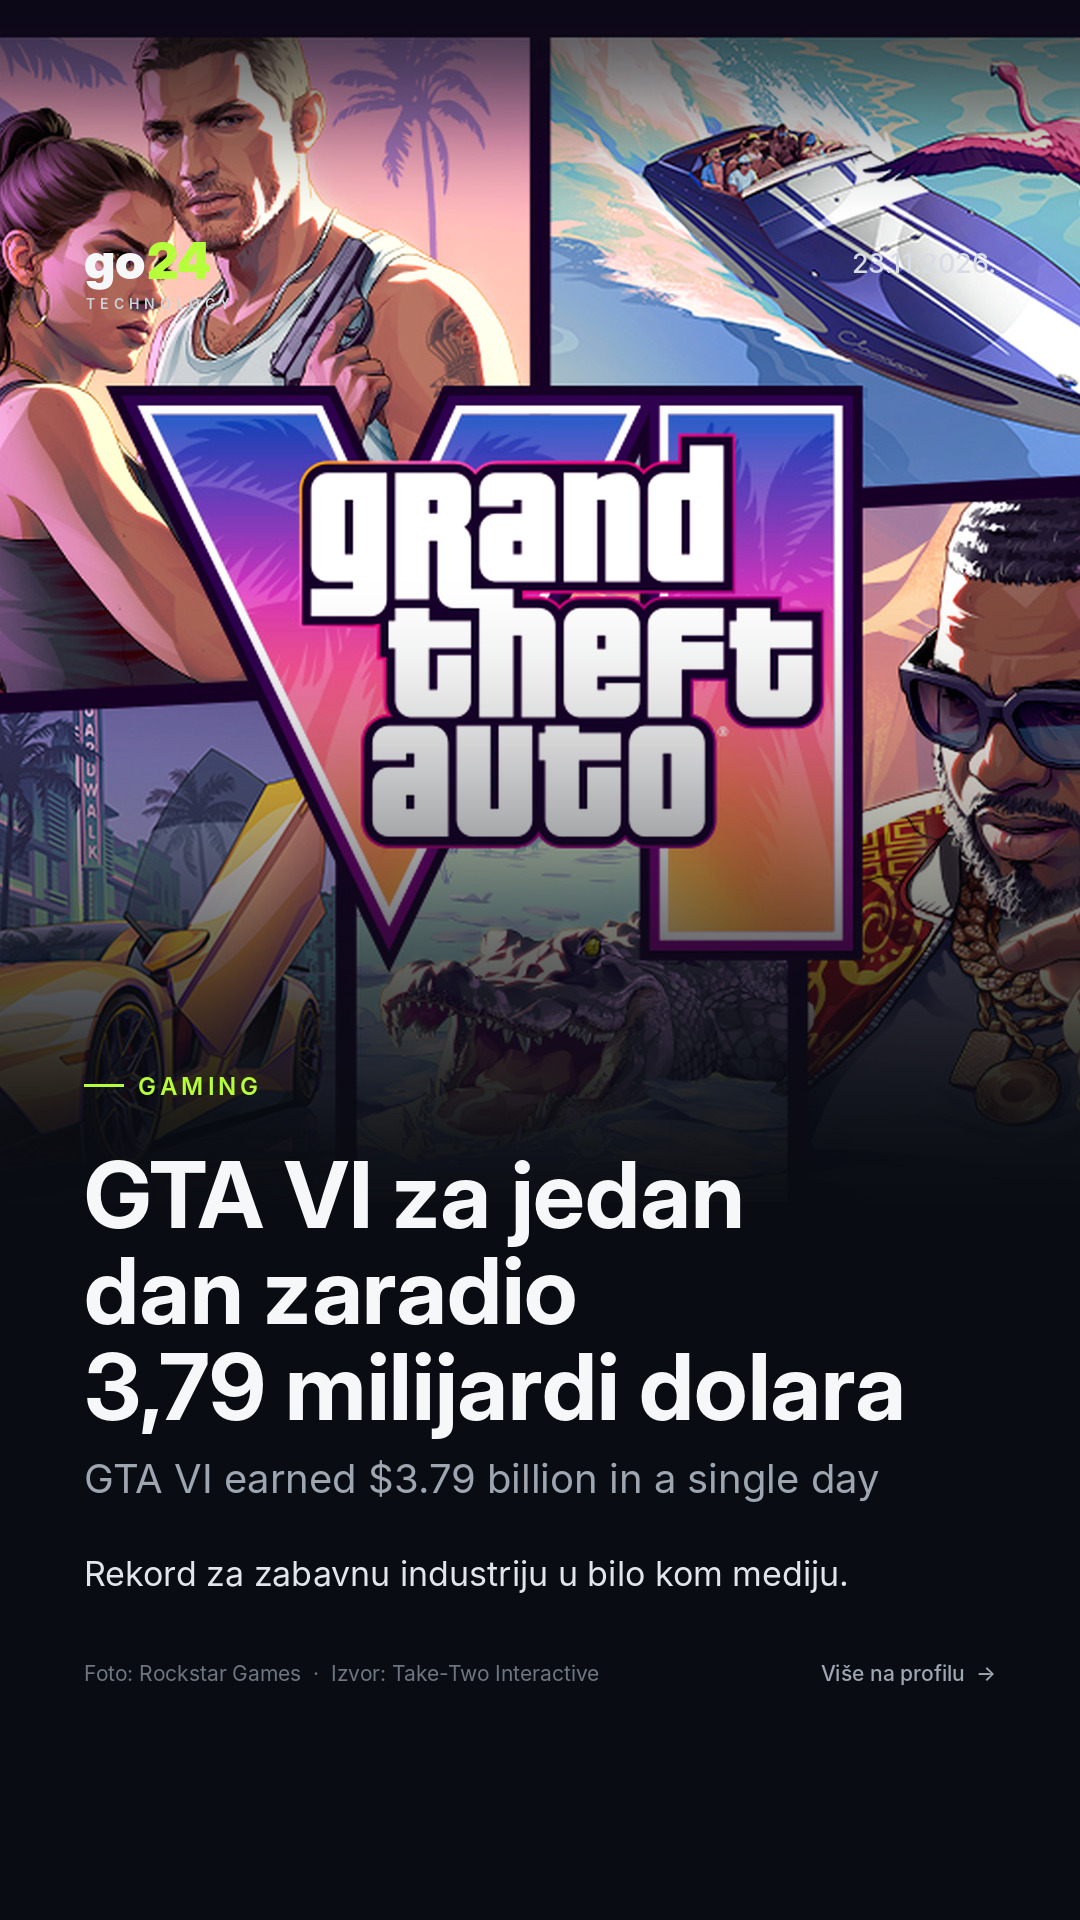
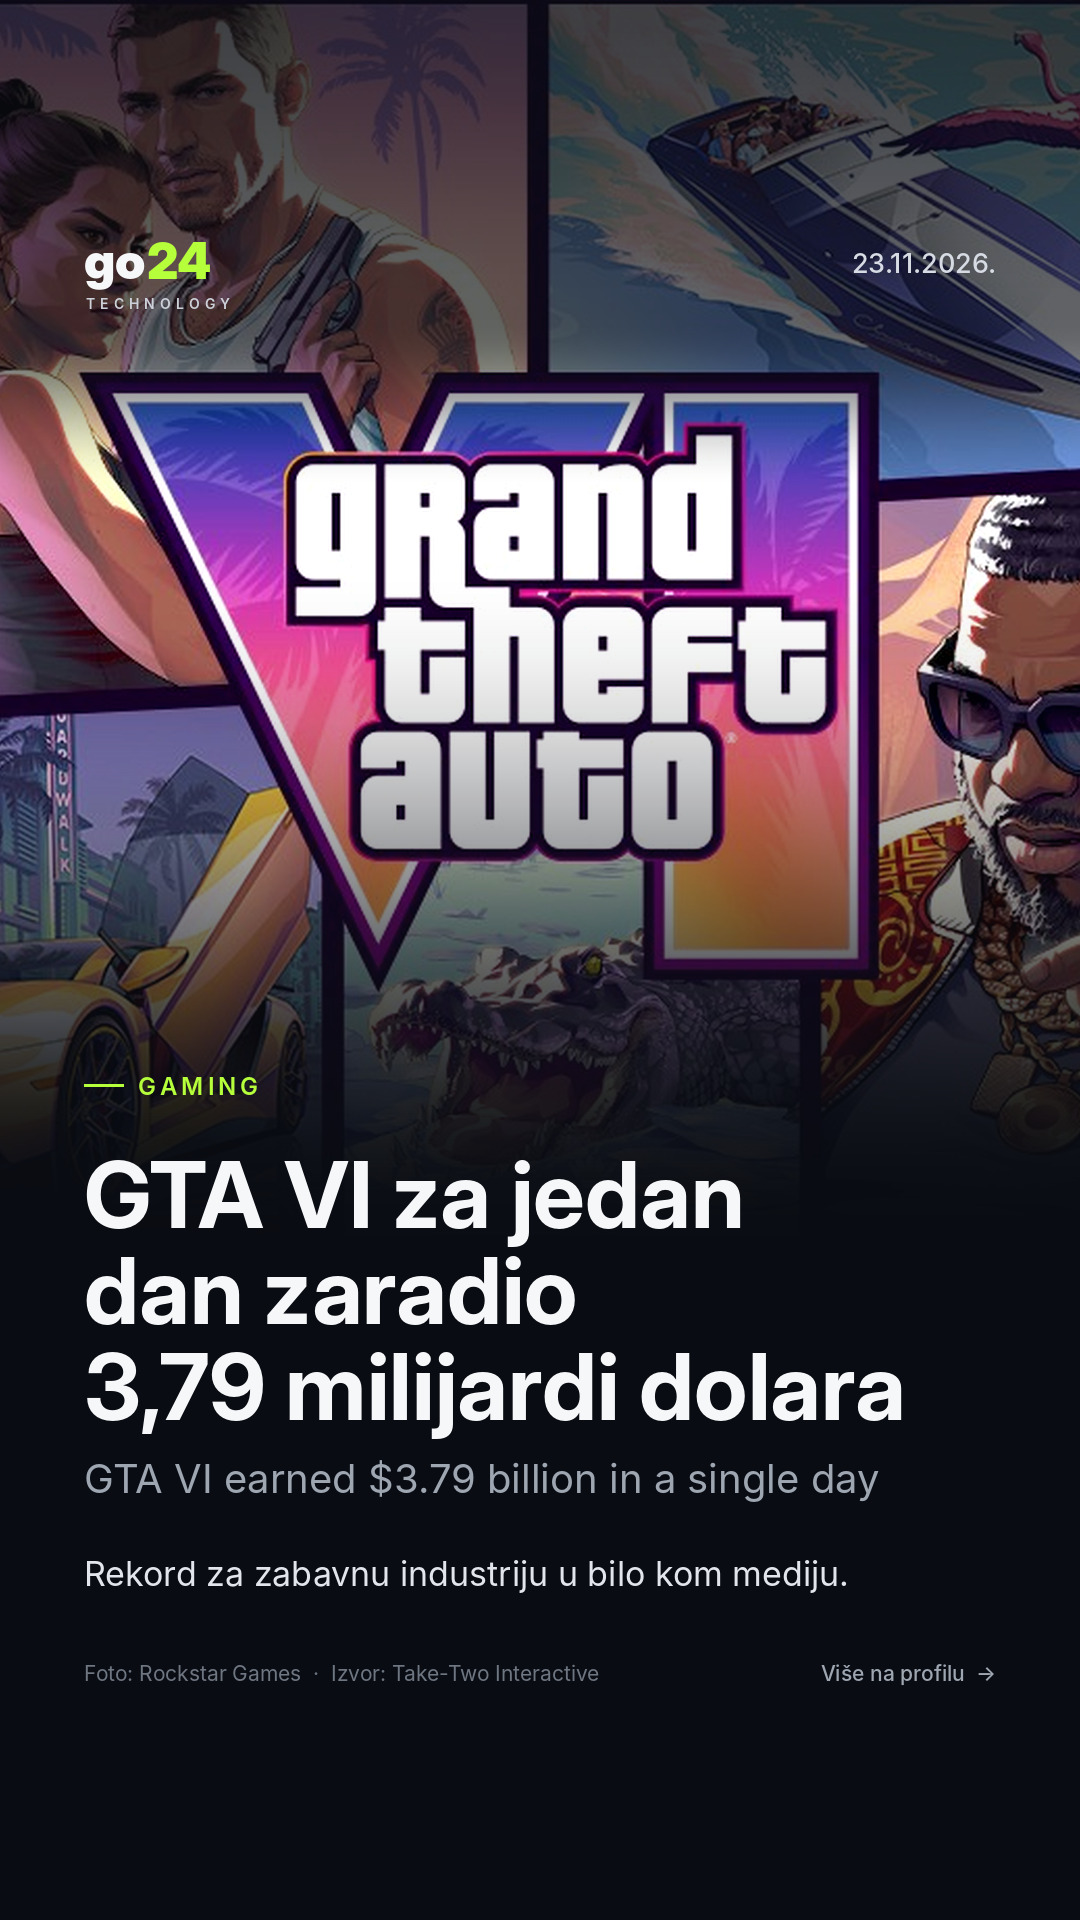
Trim photo borders, shade header on bright photos; rebuild 2026-11-23
Claude-Session: https://claude.ai/code/session_017cY3XpHnHVdpBdXc4Tw5wp

diff --git a/go24/images.py b/go24/images.py
@@ -51,6 +51,39 @@ def _download(url: str) -> Image.Image:
     return img
 
 
+def trim_borders(img: Image.Image, tol: float = 10.0) -> Image.Image:
+    """Removes flat letterbox/pillarbox bands (common on og:images)."""
+    g = img.convert("L")
+    w, h = g.size
+    px = g.load()
+
+    def flat_row(y):
+        vals = [px[x, y] for x in range(0, w, max(1, w // 200))]
+        m = sum(vals) / len(vals)
+        return max(abs(v - m) for v in vals) < tol
+
+    def flat_col(x):
+        vals = [px[x, y] for y in range(0, h, max(1, h // 200))]
+        m = sum(vals) / len(vals)
+        return max(abs(v - m) for v in vals) < tol
+
+    top = 0
+    while top < h // 4 and flat_row(top):
+        top += 1
+    bot = h - 1
+    while bot > h * 3 // 4 and flat_row(bot):
+        bot -= 1
+    left = 0
+    while left < w // 4 and flat_col(left):
+        left += 1
+    right = w - 1
+    while right > w * 3 // 4 and flat_col(right):
+        right -= 1
+    if (top, left, bot, right) != (0, 0, h - 1, w - 1):
+        img = img.crop((left, top, right + 1, bot + 1))
+    return img
+
+
 def attach_image(item: dict, save_dir: Path | None = None) -> None:
     spec = item.get("image") or {}
     item["_image"] = None
@@ -67,7 +100,7 @@ def attach_image(item: dict, save_dir: Path | None = None) -> None:
             img = _download(src)
         else:
             return
-        img = img.convert("RGB")
+        img = trim_borders(img.convert("RGB"))
         if img.width < MIN_W or img.height < MIN_H:
             raise ValueError(f"image too small ({img.width}x{img.height})")
         if max(img.size) > 2000:

diff --git a/go24/render.py b/go24/render.py
@@ -135,7 +135,7 @@ def vgradient(w, h, stops):
     return mask.resize((w, h))
 
 
-def photo_canvas(item, w, h, photo_h, focus=(0.5, 0.45), dim=0.0) -> Image.Image:
+def photo_canvas(item, w, h, photo_h, focus=(0.5, 0.45), dim=0.0, header_y=60) -> Image.Image:
     """Dark canvas with the photo at the top fading into the background."""
     canvas = Image.new("RGB", (w, h), BG)
     src = item.get("_image")
@@ -150,7 +150,8 @@ def photo_canvas(item, w, h, photo_h, focus=(0.5, 0.45), dim=0.0) -> Image.Image
         ph = Image.blend(ph, Image.new("RGB", ph.size, BG), dim)
     # darken top for logo legibility, fade bottom into background
     shade = Image.new("RGB", (w, photo_h), BG)
-    top = vgradient(w, photo_h, [(0, 175), (min(0.9, 230 / photo_h), 0), (1, 0)])
+    hold, end = (header_y + 90) / photo_h, (header_y + 260) / photo_h
+    top = vgradient(w, photo_h, [(0, 200), (min(0.8, hold), 165), (min(0.9, end), 0), (1, 0)])
     ph = Image.composite(shade, ph, top)
     canvas.paste(ph, (0, 0))
     fade = vgradient(w, photo_h, [(0, 0), (0.45, 0), (1, 255)])
@@ -281,7 +282,7 @@ def render_detail(item, lang, page, out: Path):
 def render_story(item, out: Path):
     W, H = W_STORY, H_STORY
     has_photo = item.get("_image") is not None
-    img = photo_canvas(item, W, H, 1240, item.get("image", {}).get("focus", (0.5, 0.4)))
+    img = photo_canvas(item, W, H, 1240, item.get("image", {}).get("focus", (0.5, 0.4)), header_y=230)
     d = ImageDraw.Draw(img)
     header(img, item, W, y=230, scale=1.15)
 
